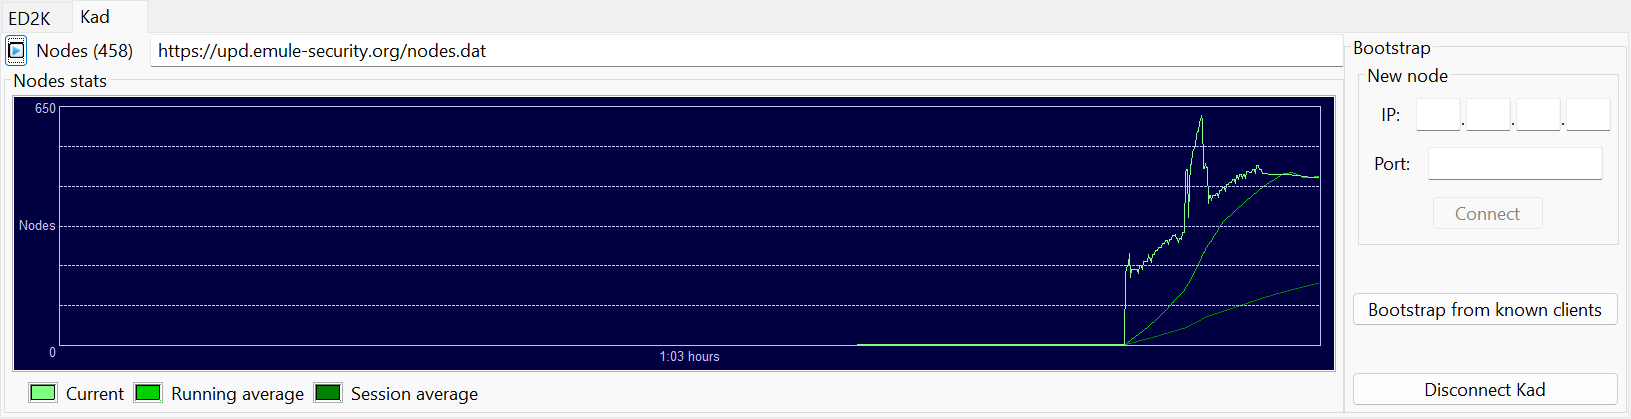
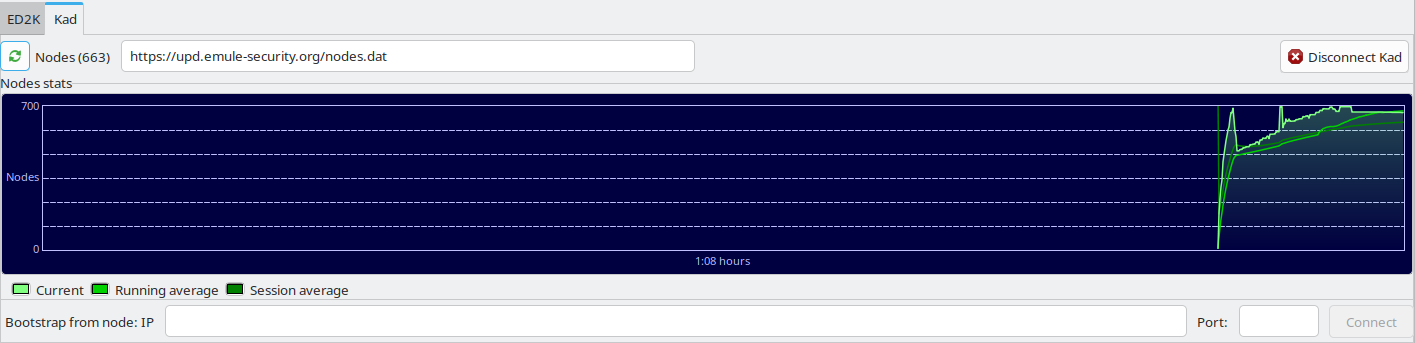
Update Networks and Statistics GUI docs for 3.1.0
Document the per-network Connect/Disconnect buttons, the redesigned Kad tab, the new server list columns and country flags, the Connection Type and Connected since info rows, the aMuleGUI Log tab, and the new graph renderer with hover readout. Re-capture the Networks and Statistics screenshots.

Changed region(s): [[0.0, 0.0, 1.0, 1.0], [0.8085, 0.0875, 0.9018, 0.1458], [0.4664, 0.1458, 0.4975, 0.1749]]

diff --git a/docs/manual/interfaces/gui/networks.md b/docs/manual/interfaces/gui/networks.md
@@ -3,14 +3,14 @@ id: networks
 title: Networks
 ---
 
-The Networks window manages your connections to the [eD2k](../../../p2p-networks/ed2k/index.md) and [Kademlia](../../../p2p-networks/kademlia.md) networks. It is the first thing you see when aMule starts.
+The Networks window manages your connections to the [eD2k](../../../p2p-networks/ed2k/index.md) and [Kademlia](../../../p2p-networks/kademlia.md) networks.
 
 ## Overview
 
 The window is split into two panels separated by a draggable divider:
 
 - **Upper panel** — a tabbed notebook with two tabs: **[ED2K](#ed2k)** and **[Kad](#kademlia-kad)**.
-- **Lower panel** — a tabbed notebook with four tabs: **[aMule Log](#amule-log)**, **[Server Info](#server-info)**, **[ED2K Info](#ed2k-info)**, and **[Kad Info](#kad-info)**.
+- **Lower panel** — a tabbed notebook with four tabs: **[aMule Log](#amule-log)**, **[Server Info](#server-info)**, **[ED2K Info](#ed2k-info)**, and **[Kad Info](#kad-info)**. [`amulegui`](./amulegui.md) adds a fifth tab, **[aMuleGUI Log](#amulegui-log)**, right after **aMule Log**.
 
 ![The Networks window](/img/docs/gui_networks/networks.png)
 
@@ -22,15 +22,25 @@ The ED2K tab manages your connection to the eDonkey server network.
 
 ### Connecting
 
-Click the **[Connect](./toolbar.md#connect--disconnect)** button in the main aMule toolbar to connect to any server in the list. This is the same button that connects to Kad: it connects to both eD2k and Kademlia at once when both networks are enabled in Preferences. aMule tries each server in priority order — High, then Normal, then Low — until a connection is established.
+The button at the top right of the ED2K tab connects to and disconnects from the eD2k network. Its label shows the current state:
 
-To connect to a specific server instead, double-click its row in the server list. aMule disconnects from the current server first if necessary.
+| Label | State | Clicking it |
+|---|---|---|
+| **Connect ED2K** | Not connected | Connects to any server in the list. With **Use priority system** enabled in [Preferences → Servers](./preferences.md#servers) (the default), aMule tries each server in priority order — High, then Normal, then Low — until a connection is established; with **Autoconnect to servers in static list only**, only static servers are tried. |
+| **Cancel ED2K** | Connection attempt in progress | Cancels the attempt. |
+| **Disconnect ED2K** | Connected | Disconnects from the current server. |
 
-To disconnect, click the **Disconnect** button to stop an active connection or cancel an ongoing connection attempt.
+The button is disabled while the eD2k network is disabled in **[Preferences → Connection → Networks](./preferences.md#networks)**, and while the [IP filter](./preferences.md#ip-filtering) is still loading.
+
+To connect to a specific server instead, double-click its row in the server list (or select it and press **Enter**). aMule disconnects from the current server first if necessary.
+
+:::note
+aMule 3.1.0 removed the global Connect button from the [toolbar](./toolbar.md): each network now has its own button on its tab. **Autoconnect on startup** in [Preferences → Connection](./preferences.md#networks) still connects both enabled networks at startup, and the [system tray menu](./tray-icon.md#context-menu) still has a **Connect** / **Disconnect** entry for both networks at once.
+:::
 
 ### Updating the Server List from a URL
 
-The URL field at the top of the ED2K tab contains the address of a remote [`server.met`](../../configuration/config-files/index.md#servermet) file. Click **Update** (or press **Enter** while the URL field is focused) to download a fresh list of servers from that address.
+The URL field next to the **Servers (N)** label contains the address of a remote [`server.met`](../../configuration/config-files/index.md#servermet) file. Click the reload button to the left of the label (or press **Enter** while the URL field is focused) to download a fresh list of servers from that address.
 
 aMule pre-populates this field with a known working URL on first run and remembers whatever you last entered.
 
@@ -40,7 +50,7 @@ You only need to update the server list occasionally. Once you have a populated 
 
 ### Adding a Server Manually
 
-Fill in the **Name** (optional), **Address** (IP or hostname), and **Port** fields, then click **Add**. When a new server is added the fields clear automatically. If the server address is already in the list, the existing entry's name is updated instead and the fields are left unchanged.
+Fill in the **Add server manually: Name** field (optional) and the **IP:Port** fields (IP address or hostname, then port), then click **Add**. When a new server is added the fields clear automatically. If the server address is already in the list, the existing entry's name is updated instead and the fields are left unchanged.
 
 ### Server List
 
@@ -50,19 +60,24 @@ Each row in the server list represents one known eD2k server:
 |---|---|
 | **Server Name** | Human-readable name of the server |
 | **Address** | IP address or hostname |
-| **Port** | TCP port |
+| **Port** | TCP port, followed in brackets by any auxiliary ports the server advertises |
 | **Description** | Server description (if provided) |
-| **Ping** | Round-trip latency in milliseconds |
+| **Ping** | Round-trip latency, shown as e.g. `42 ms` |
 | **Users** | Number of users currently connected |
+| **Max Users** | Maximum number of users the server accepts |
 | **Files** | Number of files available on the server |
 | **Priority** | Connection priority: Low, Normal, or High |
 | **Failed** | Number of consecutive failed connection attempts |
 | **Static** | Whether the server is marked as static (see below) |
 | **Version** | Server software version |
-| **TCP Flags** | Supported TCP capabilities |
-| **UDP Flags** | Supported UDP capabilities |
+| **Soft Files** | Soft limit on the number of files the server indexes per user, as advertised by the server. Blank until the server reports it |
+| **Hard Files** | Hard limit on the number of files the server indexes per user, as advertised by the server. Blank until the server reports it |
+| **TCP Flags** | Supported TCP capabilities (hidden by default) |
+| **UDP Flags** | Supported UDP capabilities (hidden by default) |
 
-The currently connected server is highlighted.
+The currently connected server is highlighted. When [IP2Country](./preferences.md#ip2country) is enabled, the **Server Name** column shows the flag of the server's country; servers whose country cannot be resolved show no flag.
+
+Like every list in aMule, the server list can be sorted by clicking a column header, and right-clicking the header lets you show or hide columns (for example the hidden **TCP Flags** and **UDP Flags**). See [Working with lists](./index.md#working-with-lists).
 
 ### Right-Click Context Menu
 
@@ -74,11 +89,13 @@ Right-clicking one or more servers opens a context menu:
 |---|---|
 | **Connect to server** / **Reconnect to server** | Connect directly to the selected server |
 | **Priority → Low / Normal / High** | Set the connection priority for the selected server(s) |
-| **Mark server as static** | Prevent the server from being removed during automatic list cleanup |
-| **Mark server as non-static** | Remove the static protection |
+| **Mark server as static** / **Mark servers as static** | Prevent the server from being removed during automatic list cleanup |
+| **Mark server as non-static** / **Mark servers as non-static** | Remove the static protection |
 | **Remove server** / **Remove servers** | Delete the selected server(s) from the list |
 | **Remove all servers** | Delete every server from the list |
 | **Copy eD2k link to clipboard** / **Copy eD2k links to clipboard** | Copy the server's [`ed2k://` link](../../../p2p-networks/ed2k/links.md) as plain text |
+
+**Connect to server** is only available with a single server selected. **Mark server as static** is disabled when every selected server is already static, and **Mark server as non-static** when none of them is.
 
 You can also press the **[Delete](./shortcuts.md#keyboard-shortcuts)** key to remove the currently selected server(s) without opening the context menu.
 
@@ -94,17 +111,21 @@ The Kad tab manages your connection to the Kademlia distributed network. Unlike 
 
 ![The Kad tab](/img/docs/gui_networks/networks_upper_kad.png)
 
-### Connecting
+### Connecting {#connecting-kad}
 
-Click **Bootstrap from known clients** to connect to the Kademlia network using the node list already stored on disk ([`nodes.dat`](../../configuration/config-files/index.md#nodesdat)). This is the standard way to start Kad.
+The button at the top right of the Kad tab starts and stops Kademlia, using the node list already stored on disk ([`nodes.dat`](../../configuration/config-files/index.md#nodesdat)). Like its ED2K counterpart, its label shows the current state:
 
-Alternatively, clicking the **[Connect](./toolbar.md#connect--disconnect)** button on the main aMule toolbar connects to both ED2K and Kad simultaneously (if both are enabled in Preferences).
+| Label | State | Clicking it |
+|---|---|---|
+| **Connect Kad** | Kad not running | Starts Kad and bootstraps from the known nodes. |
+| **Cancel Kad** | Kad running but not yet connected | Stops Kad. |
+| **Disconnect Kad** | Connected | Stops Kad. |
 
-To disconnect, click **Disconnect Kad** to stop the Kademlia connection. You can reconnect at any time using **Bootstrap from known clients**.
+The button is disabled while the Kademlia network is disabled in **[Preferences → Connection → Networks](./preferences.md#networks)**.
 
 ### Updating the Nodes List from a URL
 
-The URL field contains the address of a remote [`nodes.dat`](../../configuration/config-files/index.md#nodesdat) file. Click **Update** (or press **Enter** in the URL field) to download a fresh list.
+The URL field next to the **Nodes (N)** label contains the address of a remote [`nodes.dat`](../../configuration/config-files/index.md#nodesdat) file. Click the reload button to the left of the label (or press **Enter** in the URL field) to download a fresh list.
 
 :::warning
 Updating the nodes list removes your current nodes and restarts the Kademlia connection. A confirmation dialog will appear before any changes are made.
@@ -122,25 +143,31 @@ The graph displays the number of Kad nodes known to your client over time. Three
 | **Running average** | Smoothed average over recent samples |
 | **Session average** | Average since aMule started |
 
-The graph auto-scales upward as the node count grows. A **Nodes (N)** label above the graph shows the current number of known Kad nodes at a glance.
+The graph auto-scales upward as the node count grows. The **Nodes (N)** label at the top of the tab shows the current number of known Kad nodes at a glance.
+
+Hover the mouse over the graph to show a crosshair and a readout of the values at that point in time, the same as in the [Statistics](./statistics.md#reading-a-value) graphs.
 
 ### Bootstrapping from a Specific Node
 
-If you know the IP address and port of a Kad node, enter it in the four IP octet fields and the Port field, then click **Connect**. The **Connect** button is enabled only when all five fields contain a value.
+If you know the IP address and port of a Kad node, enter the IP address in the **Bootstrap from node: IP** field (in `x.x.x.x` format) and the port in the **Port** field, then click the **Connect** button next to them. The button is enabled only when both fields contain a value.
 
 ## Log and Information Panels
 
-The lower panel contains four tabs with live status information.
+The lower panel contains four tabs with live status information (five in `amulegui`).
 
 ### aMule Log
 
-A scrollable log of all application events: connections, downloads, errors, and internal messages. Click **Reset** to clear the log.
+A scrollable log of all application events: connections, downloads, errors, and internal messages. Click **Clear** to clear the log. In [`amulegui`](./amulegui.md) this tab shows the log of the connected core, and **Clear** also empties that log in the core.
 
 ![The aMule Log tab](/img/docs/gui_networks/networks_lower_amule_logs.png)
 
+### aMuleGUI Log
+
+Only in [`amulegui`](./amulegui.md): the remote GUI's own log messages (connection to the core, reconnections, local errors), kept apart from the core's log. It has its own **Clear** button, which only clears the remote GUI's log.
+
 ### Server Info
 
-A scrollable log of eD2k server events: connection attempts, server messages, and status updates. Click **Reset** to clear the log.
+A scrollable log of eD2k server events: connection attempts, server messages, and status updates. Click **Clear** to clear the log (in `amulegui` this also clears it in the core).
 
 ![The Server Info tab](/img/docs/gui_networks/networks_lower_server_info.png)
 
@@ -155,13 +182,16 @@ Live eD2k connection details:
 | **eD2k Status** | `Connected` or `Not Connected` |
 | **IP:Port** | Your external IP address and TCP port (when HighID), or `Server` (when LowID) |
 | **ID** | Your numeric eD2k user ID |
-| *(blank label)* | `HighID` or `LowID` |
+| **Connection Type** | `HighID` or `LowID` |
+| **Connected since** | Local date and time the current server connection was established |
+
+Only **eD2k Status** is shown while disconnected.
 
 A **HighID** means your ports are reachable from the internet and you have full connectivity. A **LowID** means you are behind a firewall or NAT and other clients cannot connect to you directly, which significantly reduces transfer performance. See [Network Connectivity](../../configuration/network-connectivity.md) for how to fix this.
 
 ### Kad Info
 
-Live Kademlia connection details (shown only when Kad is running):
+Live Kademlia connection details. While Kad is not running only **Kademlia Status** is shown, and the rows from **Connected since** onwards appear only while Kad is connected:
 
 ![The Kad Info tab](/img/docs/gui_networks/networks_lower_kad_info.png)
 
@@ -170,8 +200,9 @@ Live Kademlia connection details (shown only when Kad is running):
 | **Kademlia Status** | `Running`, `Running in LAN mode`, or `Not running` |
 | **Kademlia client ID** | Your 128-bit Kad identity as a hex string |
 | **Status** | `Connected` or `Disconnected` |
-| **Connection State** | `OK`, or `Firewalled — open TCP port N in your router or firewall` |
-| **UDP Connection State** | `OK`, or `Firewalled — open UDP port N in your router or firewall` |
+| **Connected since** | Local date and time the Kad connection was established |
+| **Connection State** | `OK`, or `Firewalled - open TCP port N in your router or firewall` |
+| **UDP Connection State** | `OK`, or `Firewalled - open UDP port N in your router or firewall` |
 | **Firewalled state** | Buddy connection status (only shown when firewalled) |
 | **IP address** | Your external IP address as seen by the Kad network |
 | **Indexed sources** | Number of file sources your node is indexing for the network |

diff --git a/docs/manual/interfaces/gui/statistics.md b/docs/manual/interfaces/gui/statistics.md
@@ -9,7 +9,7 @@ The Statistics window shows detailed data about the current aMule session: speed
 
 The window is divided into two main areas:
 
-- **Graphs** (top portion) — visual speed and connection history for the last few minutes.
+- **Graphs** — download speed (top left), upload speed (top right) and connections (bottom left): visual history for the last few minutes.
 - **Statistics tree** (bottom right) — a hierarchical breakdown of all numeric statistics.
 
 ## Graphs
@@ -20,7 +20,13 @@ The three graphs each update in real time.
 Make sure you understand how to read the graphs: the X axis represents time (newest data on the right), and the Y axis is the measured value. The "average" lines smooth out short-term spikes.
 :::
 
-Each graph has a legend below it with three labelled colour swatches identifying its lines.
+Each graph has a legend below it with three labelled colour swatches identifying its lines. The curves are drawn anti-aliased, and the **Current** curve of every graph except **Connections** has a shaded fill underneath. The speed graphs are scaled in KiB/s. The colours can be changed in [Preferences → Statistics](./preferences.md#statistics).
+
+### Reading a Value
+
+Hover the mouse over a graph to read its exact values: a vertical crosshair snaps to the nearest sample, a marker highlights each line at that point, and a box shows how far back the sample is (for example `-2:30 mins`) followed by the value of each line with its colour. Speeds are shown in the most readable unit, e.g. `2.13 MiB/s`. The [Kad nodes graph](./networks.md#nodes-stats-graph) in the Networks window works the same way.
+
+In [`amulegui`](./amulegui.md) the graphs show the history kept by the connected core, so they are already filled when the remote GUI connects and stay filled when you switch tabs.
 
 ### Download Speed
 
@@ -55,7 +61,7 @@ The bottom-left graph shows the number of active connections:
 | Legend | Colour | Meaning |
 |---|---|---|
 | **Active downloads** | Magenta | Connections actively downloading (clients uploading to you) |
-| **Active connections** | Light blue | All active connections combined |
+| **Active connections** | Lavender | All active connections combined |
 | **Active uploads** | Yellow | Connections actively uploading (you uploading to clients) |
 
 The **Active connections** legend label includes a scale factor such as `(1:3)`. This is the vertical (Y axis) scale of the graph, not a usage ratio: it indicates the axis has been scaled 3× because the peak number of connections exceeded the configured graph scale ([Preferences → Statistics → Connections Graph Scale](./preferences.md#graphs), default 100). The label stays at `(1:1)` until the peak rises above that scale.
@@ -75,6 +81,14 @@ Items whose value is not yet known may be hidden until a valid value is availabl
 | **Uptime** | How long aMule has been running |
 
 ### Transfer
+
+The **Transfer** branch lists the session ratio first, then the **Uploads** and **Downloads** sub-trees.
+
+#### Session UL:DL Ratio (Total)
+
+| Item | Description |
+|---|---|
+| **Session UL:DL Ratio (Total)** | Normalized upload-to-download ratio for the session (the smaller side reduced to 1), with the all-time ratio in brackets. Shows "Not available" until data has been transferred in both directions |
 
 #### Uploads
 
@@ -123,12 +137,6 @@ The **Found Sources** item expands into a sub-tree counting sources by origin (e
 | **Search Result** | Sources found from a search result |
 | **Unknown** | Sources found through unclassified methods |
 
-#### Session UL:DL Ratio (Total)
-
-| Item | Description |
-|---|---|
-| **Session UL:DL Ratio (Total)** | Normalized upload-to-download ratio for the session (the smaller side reduced to 1), with the all-time ratio in brackets. Shows "Not available" until data has been transferred in both directions |
-
 ### Connection
 
 | Item | Description |
@@ -152,6 +160,7 @@ The **Found Sources** item expands into a sub-tree counting sources by origin (e
 | **Unknown** | Clients whose application is unknown |
 | **Filtered** | Clients rejected by the [IP filter](./preferences.md#ip-filtering) |
 | **Banned** | Clients currently [banned](../../../p2p-networks/concepts.md#ban) |
+| **Kad banned addresses** | Number of addresses banned by Kad node protection. Only present in builds compiled with Kad node protection, which is off by default |
 | **Total / Known** | Total number of clients and how many of them are of a known application |
 | *(per-application list)* | Number of clients per [application](../../../p2p-networks/ed2k/clients.md) (aMule, eMule, etc.), sorted by popularity. Percentage of total shown in brackets |
 | *(per-version list)* | Number of clients per version per application. aMule, Hydranode and MLDonkey also break down into **Version** and **Operating System** sub-trees |

diff --git a/docs/p2p-networks/kademlia.md b/docs/p2p-networks/kademlia.md
@@ -53,9 +53,8 @@ aMule stores previously seen Kademlia contacts in [`nodes.dat`](../developer/fil
 
 If `nodes.dat` is empty, outdated, or missing, you can bootstrap manually:
 
-**Option 1 — From known clients already in your transfer list:**
-- In the aMule interface, go to the **Networks → [Kad](../manual/interfaces/gui/networks.md#kademlia-kad)** tab.
-- Click **Bootstrap from known clients** in the toolbar **Network** menu.
+**Option 1 — Restart Kademlia:**
+- Stop and start the Kademlia connection so the client retries the contacts it already knows. This only helps if some of them are still reachable; with an empty or missing `nodes.dat`, use one of the options below. For how to do it in aMule, see [Connecting to Kad](../manual/interfaces/gui/networks.md#connecting-kad) in the User Manual.
 
 **Option 2 — Download a fresh nodes.dat:**
 - Download a current [`nodes.dat`](../developer/file-formats/nodes-dat.md) file from a trusted source and place it in `~/.aMule/`.
@@ -67,7 +66,7 @@ If `nodes.dat` is empty, outdated, or missing, you can bootstrap manually:
 - Cancel the test download and optionally disconnect from eD2k afterwards.
 
 **Option 4 — Manual IP entry:**
-- In the **Kad** tab, enter the IP address and port of a known Kademlia-compatible client in the input boxes in the upper-right corner. See **[Bootstrapping from a Specific Node](../manual/interfaces/gui/networks.md#bootstrapping-from-a-specific-node)** in the User Manual.
+- In the **Kad** tab, enter the IP address and port of a known Kademlia-compatible client. See **[Bootstrapping from a Specific Node](../manual/interfaces/gui/networks.md#bootstrapping-from-a-specific-node)** in the User Manual.
 
 ## Contact Types (Trust Levels)
 

diff --git a/docs/developer/file-formats/nodes-dat.md b/docs/developer/file-formats/nodes-dat.md
@@ -38,7 +38,7 @@ These are third-party services unaffiliated with the aMule project. Their availa
 
 ### Downloading from the aMule interface
 
-The **Networks → Kad** tab contains a URL input field next to the Bootstrap controls. Enter a URL there and press Enter (or click the play button beside the field) to trigger an immediate download. aMule replaces the existing file once the download completes successfully.
+The **Networks → Kad** tab has a URL field to download a fresh `nodes.dat` on demand; see [Updating the Nodes List from a URL](../../manual/interfaces/gui/networks.md#updating-the-nodes-list-from-a-url) in the User Manual. aMule replaces the existing file once the download completes successfully.
 
 Once connected to Kad, aMule keeps `nodes.dat` up to date automatically while running, so manual downloads are only needed on first use or after a long period of inactivity.
 
